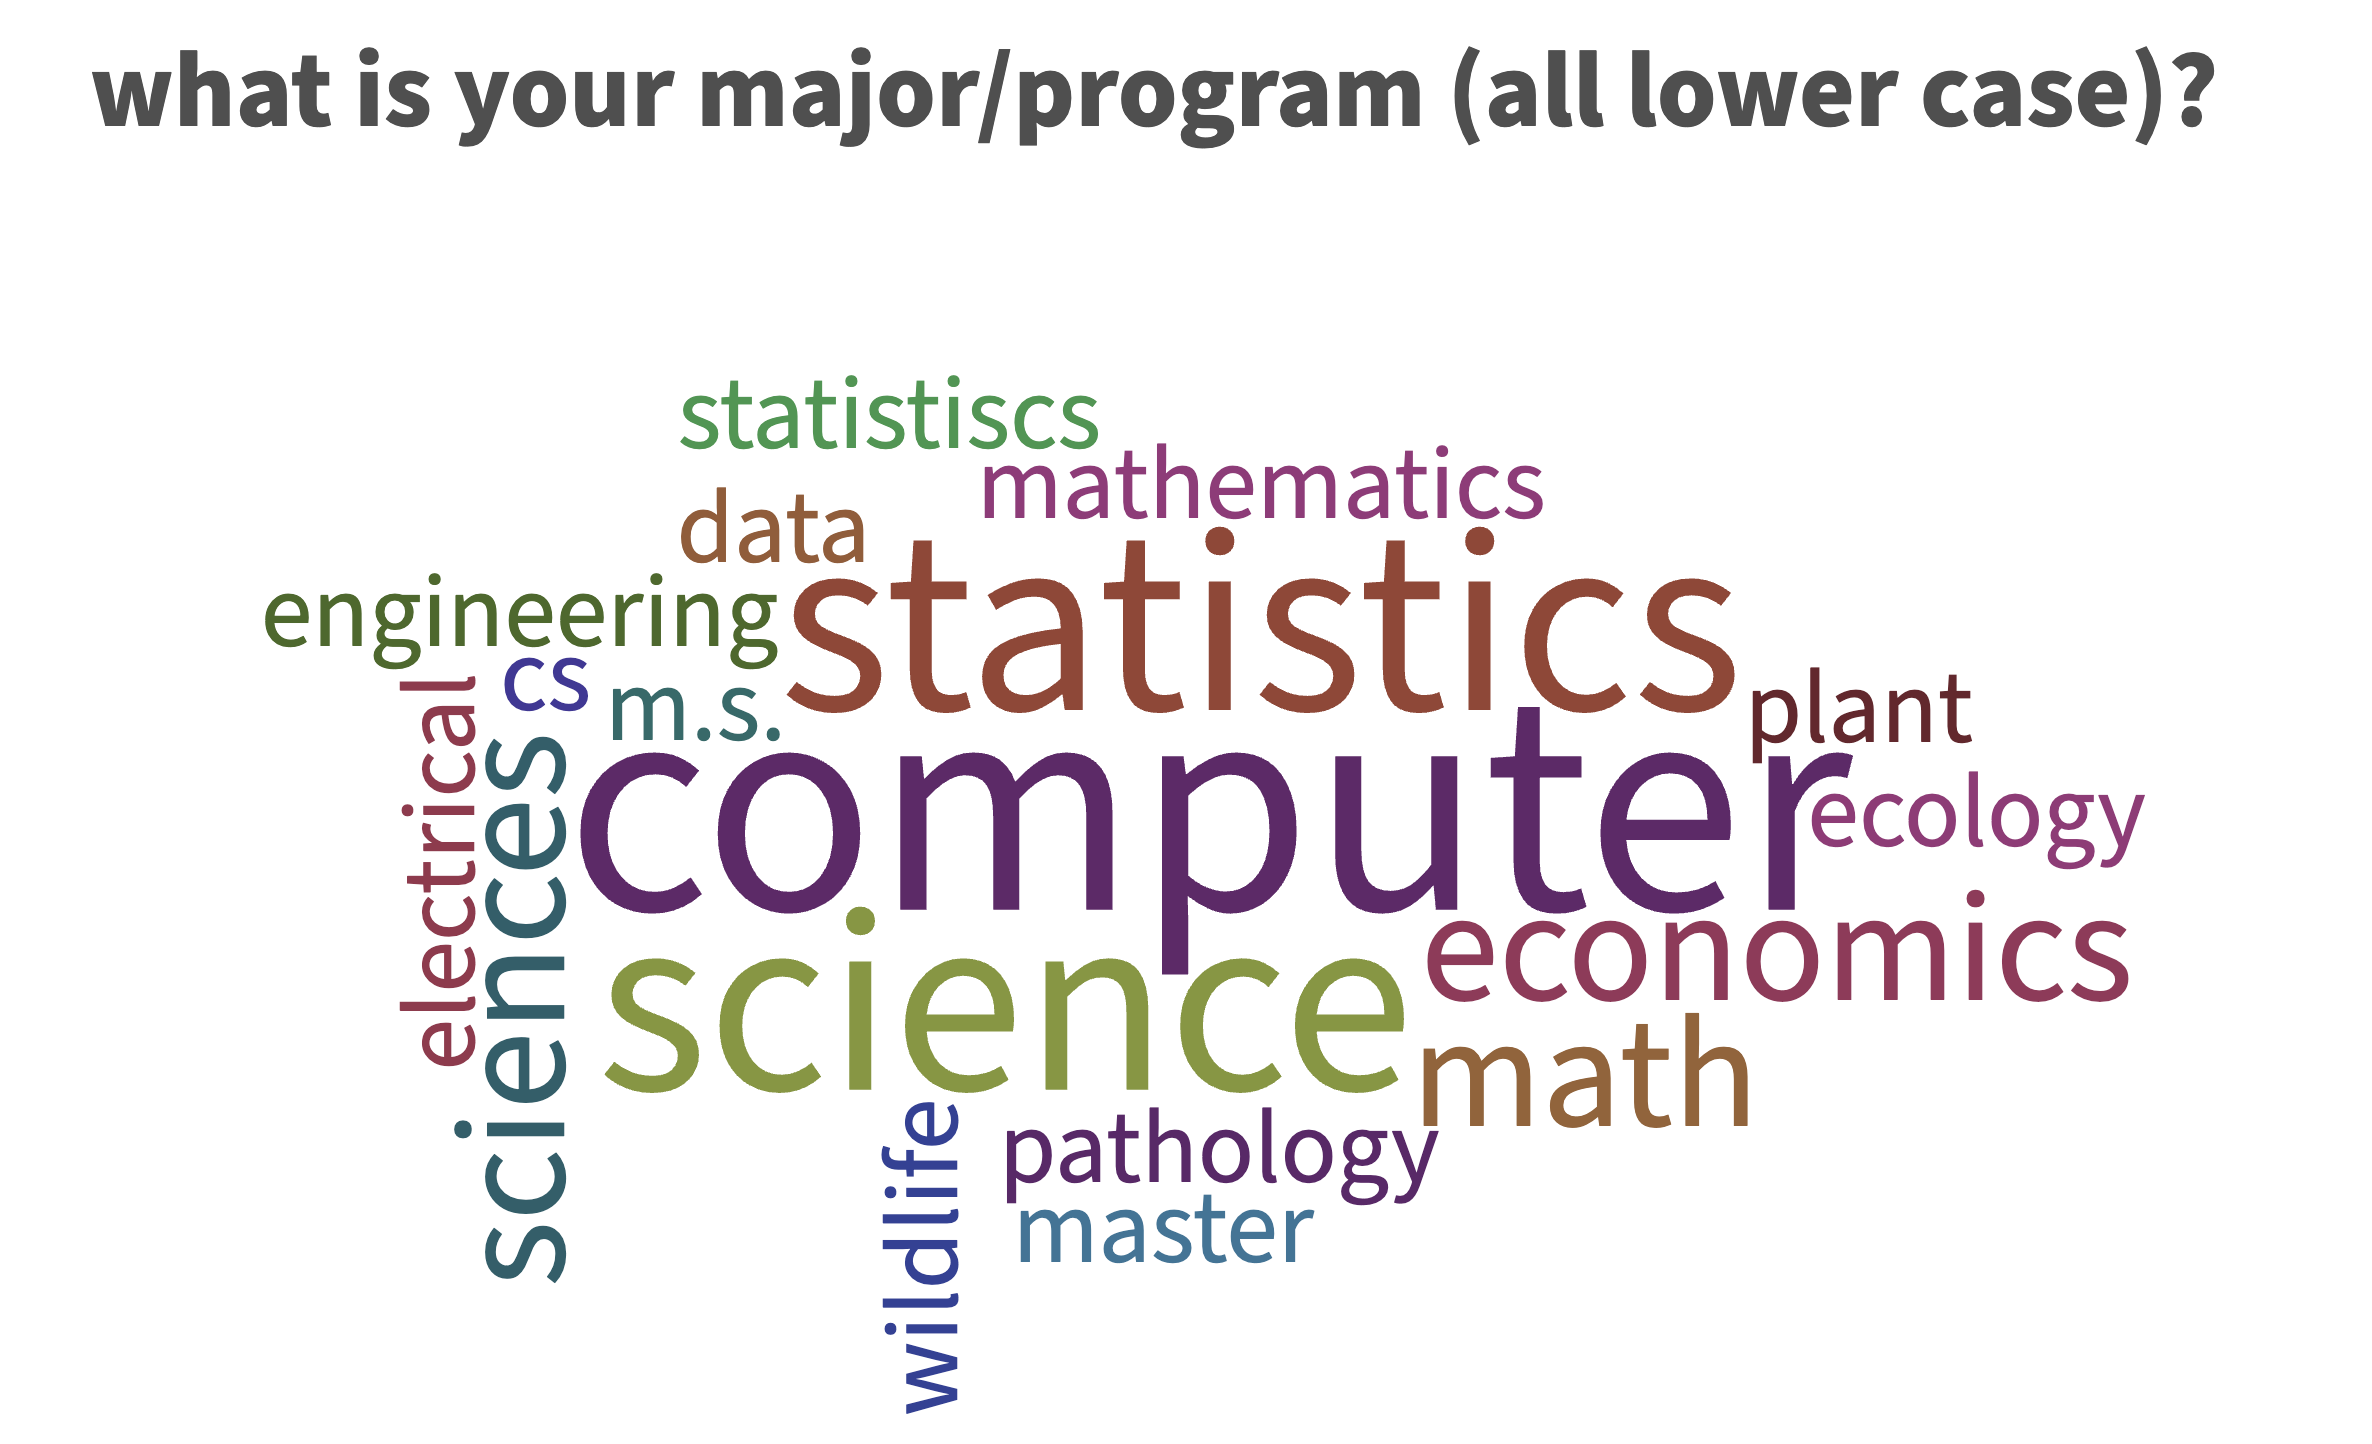
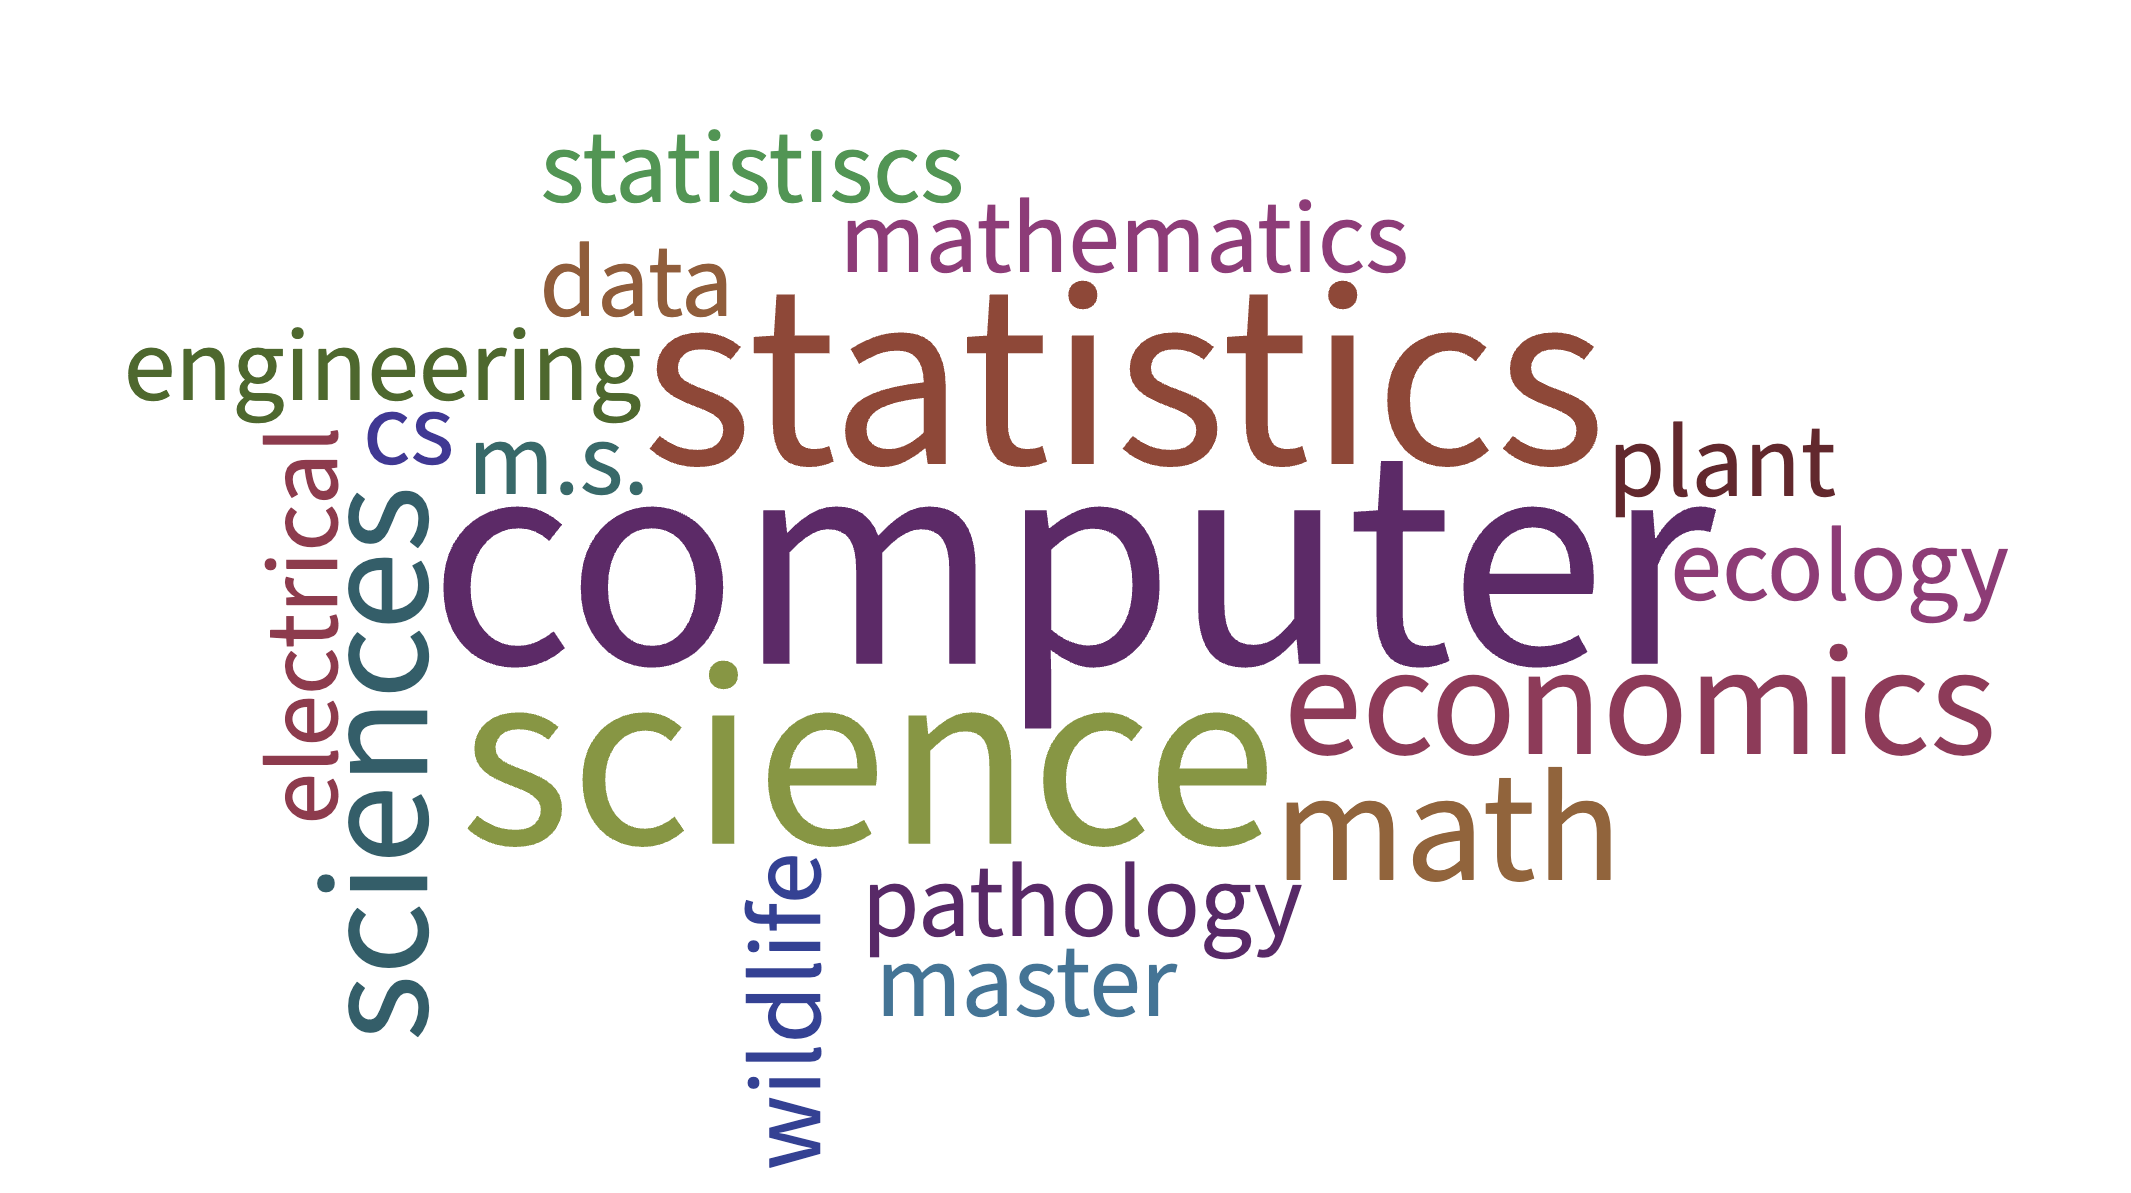
lab composition

Changed region(s): [[0.031, 0.031, 0.9601, 0.9925]]

diff --git a/pages/people.md b/pages/people.md
@@ -11,11 +11,25 @@ description: Sol&iacute;s-Lemus lab
             <li><a href="#graduate">graduate</a></li>
             <li><a href="#undergraduate">undergraduate</a></li>
             <li><a href="#past">past</a></li>
-            <li><a href="#lab">lab composition</a></li>
             <li><a href="#opportunities">oppportunities</a></li>
         </ul>
     </div>
 </div>
+
+
+<div class="row">
+  <div class="column">
+    <img src="../assets/pics/labpoll2021.png" width="350"/>
+  </div>
+  <div class="column">
+    <img src="../assets/pics/labpoll2021-2.png" width="350"/>
+  </div>
+  <div class="column">
+    <img src="../assets/pics/labpoll2021-3.png" width="350"/>
+  </div>
+</div>
+
+---
 
 ### Claudia Sol&iacute;s-Lemus
 
@@ -274,12 +288,6 @@ In my spare time, I enjoy swimming, running, biking, climbing and yoga!
 
 ---
 
-### <a name="lab"></a>Lab composition
-
-<div style="text-align:center"><img src="../assets/pics/labpoll2021.png" width="350"/></div>
-
-
----
 
 ### <a name="opportunities"></a>Opportunities
 
